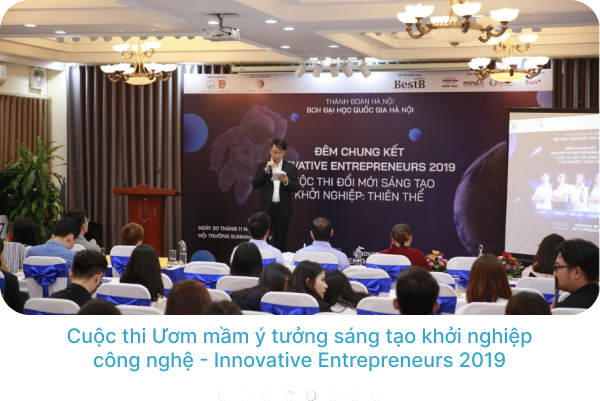
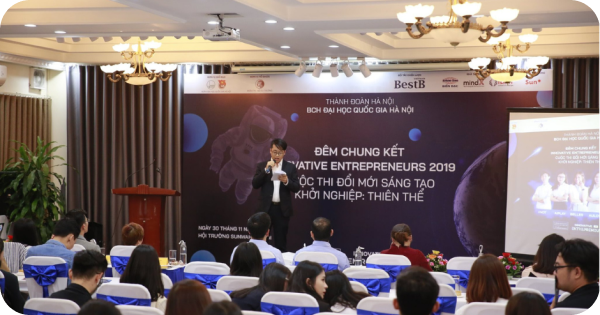
làm lại aboutme slider

diff --git a/src/components/AboutMe.css b/src/components/AboutMe.css
@@ -1,126 +1,58 @@
-/* components/CustomCarousel.css */
-.carousel {
-    max-height: 401px; /* Thay đổi chiều cao */
-    max-width: 600px; /* Thay đổi chiều rộng */
-  }
-  /* đổi kích thước thì đổi cả trên cả dưới anh nhá, trên là kích thước khung, dưới là kích thước ảnh */
-  .carousel-item img {
-    max-height: 401px; /* image không vượt quá chiều cao */
-    max-width: 100%; /* image co dãn theo chiều rộng khung Carousel */
-  }
-.carousel .carousel-indicators button{
-   display: none; 
+.container.testimonials__container {
+  width: 40%;
+  padding-bottom: 0.5rem;
 }
-/*About me css*/
-.aboutMe {
-    margin-left: 430px;
-    position: relative;
-    bottom: -20px;
-}
-.textAboutUs {
-  position: relative;
-  left: -15rem;
-  margin-bottom: 40px;
-}
-/* logoHRT*/
-.logoCLB {
-    width: 118.5px;
-    height: 109.5px;
-    position: relative;
-    left: -14.5rem;
-    margin-bottom: 40px;
 
+.client__avatar {
+  width: 35rem;
+  overflow: hidden;
+ 
+  margin: 0 auto 1rem;
+  border: 0.4rem solid var(--color-primary-variant);
 }
-@media all and (max-width:992px){
-  .aboutMe{
-    margin-left: 20% !important;
-  }
-  .textAboutUs {
-    position: relative;
-    left: -6rem;
-    margin-bottom: 40px;
-  }
-  .logoCLB {
-    width: 7.40625em;
-    height: 6.84375em;
-    position: relative;
-    left: -6rem;
-    margin-bottom: 40px;
-}
-}
-@media all and (max-width:835px){
-  .aboutMe{
-    margin-left: 15% !important;
-  }
-  .textAboutUs {
-    position: relative;
-    left: -3rem;
-    margin-bottom: 40px;
-  }
-  .logoCLB {
-    width: 7.40625em;
-    height: 6.84375em;
-    position: relative;
-    left: -3rem;
-    margin-bottom: 40px;
-}
-}
-@media all and (max-width:594px){
-  .aboutMe{
-    margin-left: 3em !important;
-  }
-  .carousel {
-    max-height: 80vh !important; /* Thay đổi chiều cao */
-    max-width: 80vh !important; /* Thay đổi chiều rộng */
-  }
-  .carousel-item img {
-    max-height: 80vh !important; /* image không vượt quá chiều cao */
-    max-width: 100%; /* image co dãn theo chiều rộng khung Carousel */
-  }
-  .textAboutUs {
-    position: relative;
-    left: -1rem;
-    margin-bottom: 40px;
-  }
-  .logoCLB {
-    width: 7.40625em;
-    height: 6.84375em;
-    position: relative;
-    left: -1rem;
-    margin-bottom: 40px;
 
+.testimonial {
+  background: var(--color-bg-variant);
+  text-align: center;
+  padding: 2rem;
+  border-radius: 2rem;
+  user-select: none;
 }
+#testimonials #hrtlogo{
+  width: 5%;
+  margin: 20px 0;
 }
-@media all and (max-width:415px){
-  .aboutMe{
-    margin-left: 3% !important;
-  }
+#testimonials h1:first-child{
+  color: #91FFFE;
 }
-@media screen and (max-width: 467px) and (max-height: 668px){
-  .carousel {
-    max-height: 80vh !important; /* Thay đổi chiều cao */
-    max-width: 80vh !important; /* Thay đổi chiều rộng */
-  }
-  .carousel-item img {
-    max-height: 80vh !important; /* image không vượt quá chiều cao */
-    max-width: 100%; /* image co dãn theo chiều rộng khung Carousel */
-  }
-  .aboutMe {
-    margin-left: 0px !important;
-    position: relative;
-    bottom: -20px;
+.client__review {
+  color: #3AA4C9;
+  font-weight: 300;
+  display: block;
+  width: 80%;
+  font-size: 20px;
+  margin: 0.8rem auto 0;
 }
-.textAboutUs {
-  position: relative;
-  left: -0rem;
-  margin-bottom: 40px;
-}
-.logoCLB {
-    width: 79px !important;
-    height: 73px !important;
-    position: relative;
-    left: 0 !important;
-    margin-bottom: 40px;
 
+.swiper-pagination-clickable .swiper-pagination-bullet {
+  background: white;
 }
+
+
+/* =============== MEDIA QUERIES (MEDIUM DEVICES) ================ */
+@media screen and (max-width: 1024px) {
+  .container.testimonials__container {
+      width: 60%;
+  }
+}
+
+/* =============== MEDIA QUERIES (SMALL DEVICES) ================ */
+@media screen and (max-width: 600px) {
+  .container.testimonials__container {
+      width: var(--container-width-sm);
+  }
+
+  .client__review {
+      width: var(--container-width-sm);
+  }
 }

diff --git a/src/components/AboutMe.js b/src/components/AboutMe.js
@@ -1,4 +1,5 @@
 import React from 'react';
+import './AboutMe.css'
 import slide1 from '../assets/Slide1.png';
 import slide2 from '../assets/Slide2.png';
 import slide3 from '../assets/Slide3.png';
@@ -7,48 +8,74 @@ import slide5 from '../assets/Slide5.png';
 import slide6 from '../assets/Slide6.png';
 import slide7 from '../assets/Slide7.png';
 import hrtLogo from '../assets/hrt_logo.png'
-import CustomCarousel from './CustomCarousel';
 
-const items = [
+import { Pagination } from 'swiper';
+
+import { Swiper, SwiperSlide } from 'swiper/react';
+import 'swiper/css';
+import 'swiper/css/pagination';
+const data = [
   {
-    src: slide1,
-    altText: 'Slide 1',
-    caption: 'Slide 1'
+    avatar: slide1,
+    review: 'Cuộc thi Vietnamese Youth Technopreneur Challenge 2022 - VYTEC22'
   },
   {
-    src: slide2,
-    altText: 'Slide 2',
-    caption: 'Slide 2'
+    avatar: slide2,
+    review: 'Cuộc thi Vietnamese Youth Technopreneur Challenge 2021 - VYTEC21'
   },
   {
-    src: slide3,
-    altText: 'Slide 3',
-    caption: 'Slide 3'
+    avatar: slide3,
+    review: 'Cuộc thi Ý tưởng sáng tạo công nghệ'
   },
   {
-    src: slide4,
-    altText: 'Slide 4',
-    caption: 'Slide 4'
+    avatar: slide4,
+    name: 'Nana McBrown',
+    review: 'Cuộc thi Ươm mầm ý tưởng sáng tạo khởi nghiệp công nghệ - Innovative Entrepreneurs 2019'
   },
   {
-    src: slide6,
-    altText: 'Slide 6',
-    caption: 'Slide 6'
+    avatar: slide5,
+    review: 'Ngày hội truyến thông UET Connect'
   },
   {
-    src: slide7,
-    altText: 'Slide 7',
-    caption: 'Slide 7'
-  }
-];
+    avatar: slide6,
+    review: 'Cuộc thi UET Makerthon'
+  },
+  {
+    avatar: slide7,
+    review: 'Ngày hội việc làm UET Job Fair'
+  },
+  
+]
 export const AboutMe = () => {
   return (
-    <section id='aboutme'>
-      <div className='aboutMe'>
-        <h1 className='textAboutUs'>VỀ CHÚNG TÔI</h1>
-        <img className='logoCLB' src = {hrtLogo}></img>
-          <CustomCarousel items={items}/>
-      </div>
-      </section>
+    <section id='testimonials'>
+    <h1>VỀ CHÚNG TÔI</h1>
+    <img src={hrtLogo} id='hrtlogo'></img>
+    <h1>CÂU LẠC BỘ HRTECH</h1>
+
+    <Swiper className="container testimonials__container"
+    // install Swiper modules
+    modules={[Pagination]}
+    spaceBetween={40}
+    slidesPerView={1}
+    pagination={{ clickable: true }}
+    >
+      {
+        data.map(({avatar, name, review}, index) => {
+          return (
+            <SwiperSlide key={index} className='testimonial'>
+              <div className="client__avatar">
+                <img src={avatar}/>       
+              </div>
+             
+                <span className='client__review'>
+                  {review}
+                </span>
+            </SwiperSlide>
+          )
+        })
+      }  
+    </Swiper>
+  </section>
   )
 }

diff --git a/src/components/NavBar.js b/src/components/NavBar.js
@@ -40,7 +40,7 @@ export const NavBar = () =>{
               <Nav.Link href="#thele" className ={activeLink === 'thele' ? 'active navbar-link' : 'navbar-link'} onClick={() => onUpdateActiveLink('thele')}>THỂ LỆ</Nav.Link>
               <Nav.Link href="#timeline" className={activeLink === 'timeline' ? 'active navbar-link' : 'navbar-link'} onClick={() => onUpdateActiveLink('timeline')}>TIMELINE</Nav.Link>
               <Nav.Link href="#giaithuong" className={activeLink === 'giaithuong' ? 'active navbar-link' : 'navbar-link'} onClick={() => onUpdateActiveLink('giaithuong')}>GIẢI THƯỞNG</Nav.Link>
-              <Nav.Link href="#aboutme" className={activeLink === 'aboutme' ? 'active navbar-link' : 'navbar-link'} onClick={() => onUpdateActiveLink('aboutme')}>VỀ CHÚNG TÔI</Nav.Link>
+              <Nav.Link href="#testimonials" className={activeLink === 'aboutme' ? 'active navbar-link' : 'navbar-link'} onClick={() => onUpdateActiveLink('aboutme')}>VỀ CHÚNG TÔI</Nav.Link>
           </Nav>
           <span className="navbar-text">
               <div className="logo_hr">
